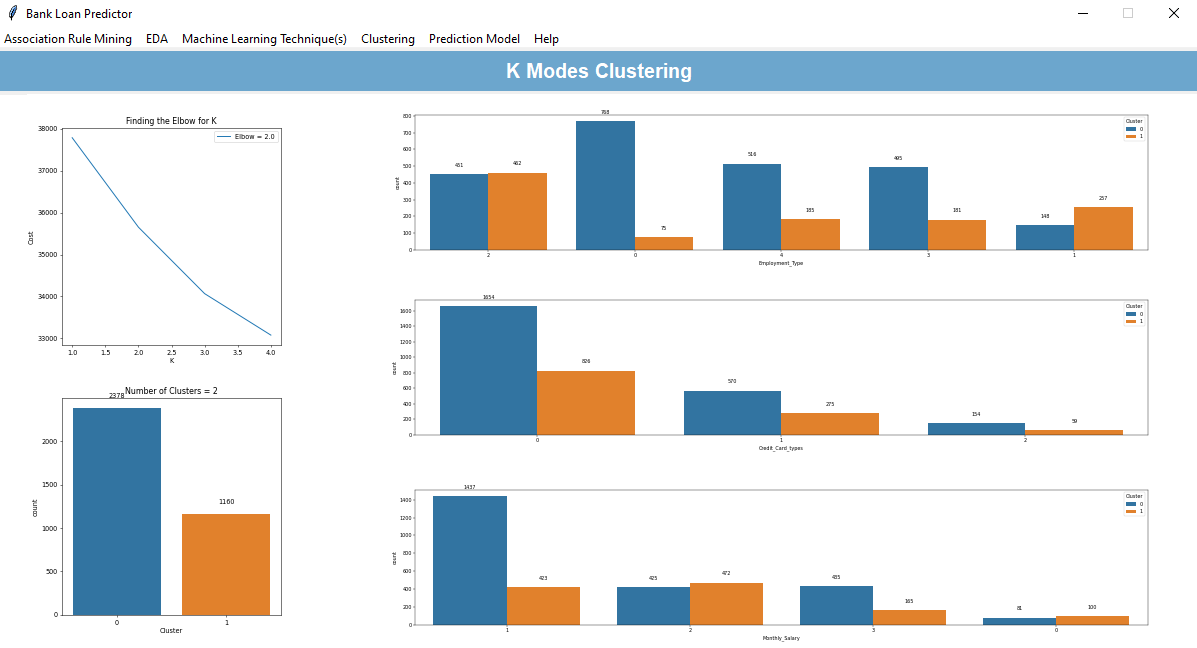
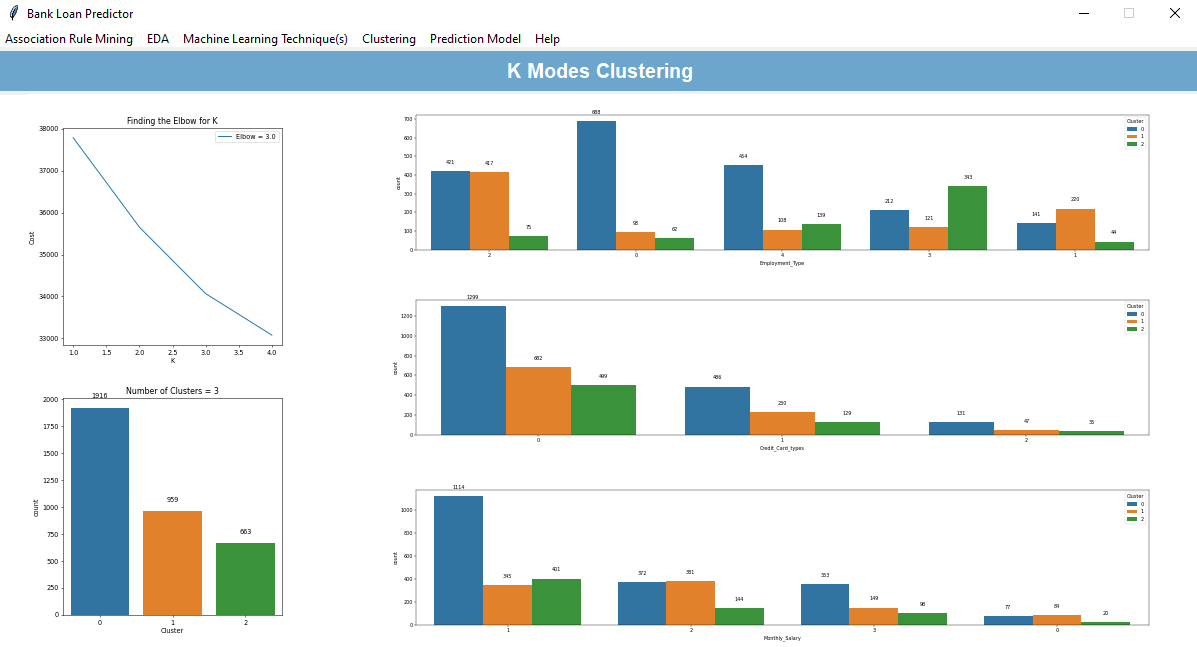
KMode

diff --git a/Project/Project.py b/Project/Project.py
@@ -667,14 +667,14 @@ class LoanPredictor():
 		canvas = FigureCanvasTkAgg(figure,master=self.kmcFrame)
 		canvas.draw()
 		canvas.get_tk_widget().place(x=30,y=45)
-		ax.plot(y,cost, label='Elbow = 2.0')
+		ax.plot(y,cost, label='Elbow = 3.0')
 		ax.set_xlabel('K')
 		ax.set_ylabel('Cost')
 		ax.legend()
 		ax.set_title('Finding the Elbow for K')
 		
-		# Chosen cluster = 2, because it is the elbow
-		km = KModes(n_clusters=2, init = "Cao", n_init = 1, verbose=1)
+		# Chosen cluster = 3, because it is the elbow
+		km = KModes(n_clusters=3, init = "Cao", n_init = 1, verbose=1)
 		clusters = km.fit_predict(self.df5)
 		self.df5 = self.df5.apply(lambda x: self.dictionary[x.name].fit_transform(x))
 		self.df5 = self.df5.apply(lambda x: self.dictionary[x.name].inverse_transform(x))
@@ -690,7 +690,7 @@ class LoanPredictor():
 		canvas1 = FigureCanvasTkAgg(figure1,master=self.kmcFrame)
 		canvas1.draw()
 		canvas1.get_tk_widget().place(x=30,y=315)
-		ax1.set_title('Number of Clusters = 2')
+		ax1.set_title('Number of Clusters = 3')
 		b = sns.countplot(x='Cluster', data=df5_new, ax=ax1)
 		for p in b.patches:
 			b.annotate("%.0f" % p.get_height(), (p.get_x() + 
